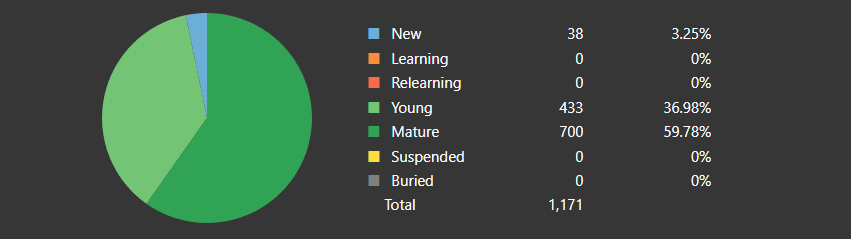
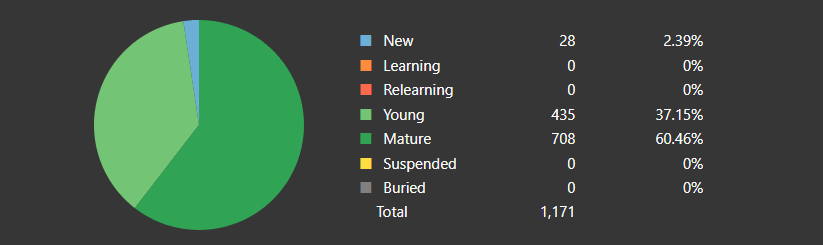
Deployed a7883a2 with MkDocs version: 1.5.3

diff --git a/index.html b/index.html
@@ -423,15 +423,15 @@
       <ul class="md-nav__list">
         
           <li class="md-nav__item">
-  <a href="#tango-n5-as-of-120523" class="md-nav__link">
-    Tango N5 as of 12/05/23
+  <a href="#tango-n5-as-of-120623" class="md-nav__link">
+    Tango N5 as of 12/06/23
   </a>
   
 </li>
         
           <li class="md-nav__item">
-  <a href="#tango-n4-as-of-120523" class="md-nav__link">
-    Tango N4 as of 12/05/23
+  <a href="#tango-n4-as-of-120623" class="md-nav__link">
+    Tango N4 as of 12/06/23
   </a>
   
 </li>
@@ -1920,15 +1920,15 @@
       <ul class="md-nav__list">
         
           <li class="md-nav__item">
-  <a href="#tango-n5-as-of-120523" class="md-nav__link">
-    Tango N5 as of 12/05/23
+  <a href="#tango-n5-as-of-120623" class="md-nav__link">
+    Tango N5 as of 12/06/23
   </a>
   
 </li>
         
           <li class="md-nav__item">
-  <a href="#tango-n4-as-of-120523" class="md-nav__link">
-    Tango N4 as of 12/05/23
+  <a href="#tango-n4-as-of-120623" class="md-nav__link">
+    Tango N4 as of 12/06/23
   </a>
   
 </li>
@@ -1995,13 +1995,13 @@
 
 <h1 id="docjp-landing-page">doc.jp Landing Page<a class="headerlink" href="#docjp-landing-page" title="Permanent link">&para;</a></h1>
 <h2 id="anki-deck-card-counts">Anki Deck Card Counts<a class="headerlink" href="#anki-deck-card-counts" title="Permanent link">&para;</a></h2>
-<h3 id="tango-n5-as-of-120523">Tango N5 as of 12/05/23<a class="headerlink" href="#tango-n5-as-of-120523" title="Permanent link">&para;</a></h3>
-<p><strong>1133</strong> vocabulary words known with <strong>38</strong> new cards remaining </p>
+<h3 id="tango-n5-as-of-120623">Tango N5 as of 12/06/23<a class="headerlink" href="#tango-n5-as-of-120623" title="Permanent link">&para;</a></h3>
+<p><strong>1143</strong> vocabulary words known with <strong>28</strong> new cards remaining </p>
 <ul>
 <li>On track to finish all new cards on <strong>12/09/23</strong> doing <strong>10</strong> new cards a day.</li>
 </ul>
 <p><img align="center" alt="Card Counts" src="assets/anki-stats/n5-card-counts.png" /></p>
-<h3 id="tango-n4-as-of-120523">Tango N4 as of 12/05/23<a class="headerlink" href="#tango-n4-as-of-120523" title="Permanent link">&para;</a></h3>
+<h3 id="tango-n4-as-of-120623">Tango N4 as of 12/06/23<a class="headerlink" href="#tango-n4-as-of-120623" title="Permanent link">&para;</a></h3>
 <p><strong>0</strong> vocabulary words known with <strong>917</strong> new cards remaining: Haven't started this deck yet.</p>
 <p><img align="center" alt="Card Counts" src="assets/anki-stats/n4-card-counts.png" /></p>
 <h2 id="grammar-learning">Grammar Learning<a class="headerlink" href="#grammar-learning" title="Permanent link">&para;</a></h2>
